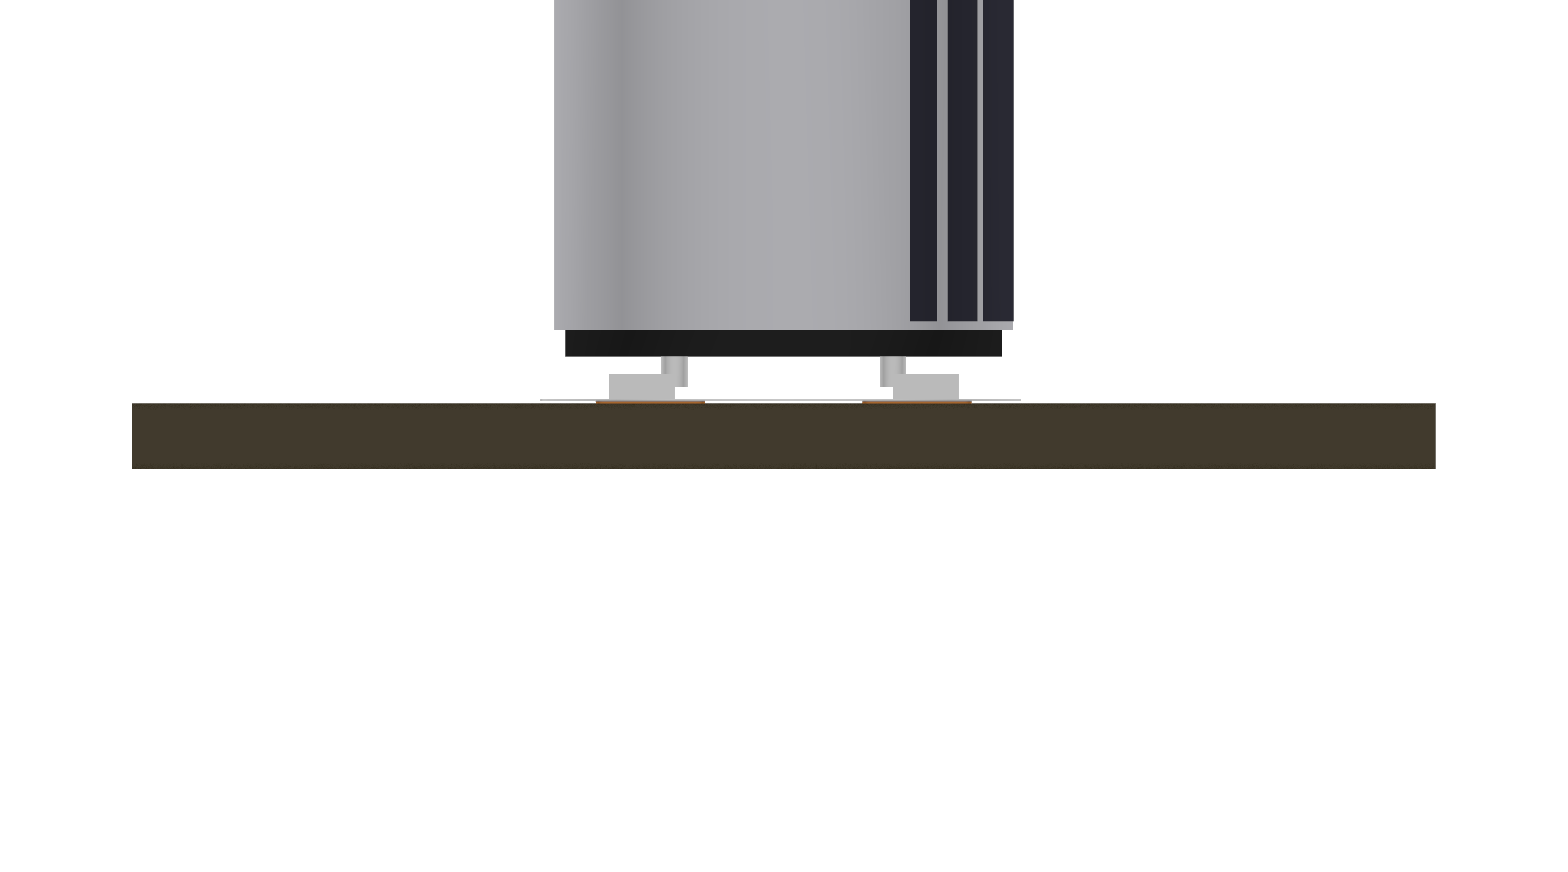
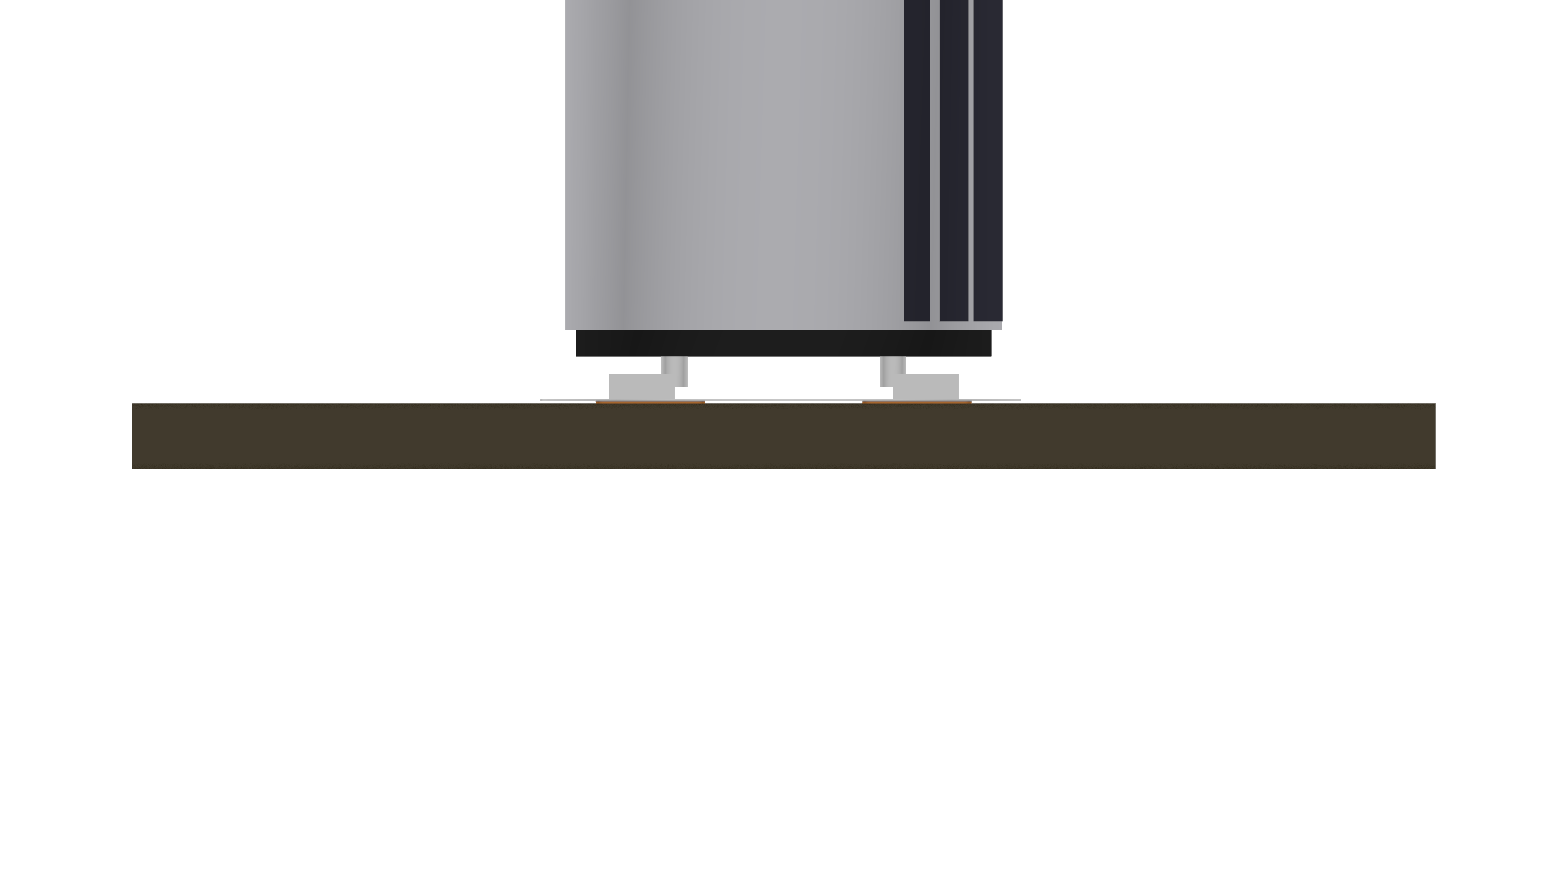
PA35V1000M10X15: model at nominal D10 x L15; report updates
The 3D model was the max envelope (D10.5 x L16). It now shows the nominal
part; the courtyard keeps the max. Report: 12P courtyard item dropped, TLV3502
board repoint noted.

Changed region(s): [[0.5625, 0.0, 0.6562, 0.4025], [0.3438, 0.0, 0.375, 0.4025]]

diff --git a/reports/2026-11-13-audio-board-parts/REPORT.md b/reports/2026-11-13-audio-board-parts/REPORT.md
@@ -18,7 +18,7 @@ the parts as follows:
 | Part | Library | Footprint | LCSC | Datasheet | Basis / notes |
 |---|---|---|---|---|---|
 | TPS552872RYQR (TI 36 V 4 A buck-boost, VQFN-HR-21) | DC-DC_converter_KSL | **VQFN-HR-21_L5.0-W3.0-P0.50_RYQ0021A** (new) | C22427496 | local, English (TI SLVSHG1) | Lands per TI example board layout 4226658/A (SLVSHG1 p.38), with pin 9 widened to 0.33 and the 2× 0.54 bar offset around it. Paste per the example stencil (p.39): bar pins 7–11 as 3 × 1.0 mm unnamed paste-only windows. 21 symbol pins checked name-for-name against Table 5-1 |
-| PA35V1000M10X15 (JIERR 1000 µF 35 V polymer, radial D10 × L15) | Capacitor_KSL | **CP_Radial_D10.0mm_P5.00mm_SMD-FormedLead** (new) | C46550434 | local, **bilingual** (see open items) | p.7 table: 16 mΩ, 4100 mA ripple, 10X15. The cap is mounted upright with its leads formed into SMD feet on 2.5 × 1.3 pads, with no holes. The model is a max envelope (D10.5, 16.0 body + 1.0 assumed forming standoff), not maker CAD |
+| PA35V1000M10X15 (JIERR 1000 µF 35 V polymer, radial D10 × L15) | Capacitor_KSL | **CP_Radial_D10.0mm_P5.00mm_SMD-FormedLead** (new) | C46550434 | local, **bilingual** (see open items) | p.7 table: 16 mΩ, 4100 mA ripple, 10X15. The cap is mounted upright with its leads formed into SMD feet on 2.5 × 1.3 pads, with no holes. The model is the nominal part, D10.0 × L15.0 (code 10X15, p.2 table), on a 1.0 mm assumed forming standoff; the courtyard keeps the max D10.5 × L16.0. LCSC's own model was not used: it is a generic D10 can about 12 mm tall with straight through-hole leads |
 | AFC01-S10FCA-00 (JUSHUO 10P 0.5 mm FPC, flip-lock, bottom contact) | Connector_KSL | **FPC-SMD_AFC01-S10FCA-00** (new) | C262659 | local, English (family spec, sha256 = the accepted S05 copy) | Signal 0.30 × 1.30 at 0.50; nails 2.00 × 1.60 at ±3.95. This follows the family rule A/2 + 1.70 that also gives the verified S05 (±2.70). 10P row: A 4.50 / B 5.60 / C 9.40 |
 | **FPC-05F-14PH20** (XUNPU 14P 0.5 mm FPC, flip-lock, bottom contact, H2.0) | Connector_KSL | **FPC-SMD_14P-P0.50_FPC-05F-14PH20** (new) | C2856800 | local, **bilingual** (see open items) | Built from the verified 12P footprint: outline +0.5 per side, 14 signal pads at exact 0.50 pitch, shells 15/16 at ±4.94. Cross-checked against the LCSC/EasyEDA 14P CAD (pads agree to 0.3 µm) and the maker drawing p.1 (0.30 × 1.25 at 0.50, nails 2.00 × 2.50, 2.69 nail edge → pin 1, 0.70 gap). STEP is the LCSC model, with the same origin convention as the 12P (offset y +1.2) |
 | 0402WGF3162TCE (UNI-ROYAL 31.6 kΩ 1 % 0402) | Resistor_KSL | R0402 | C11463 | local, English (family) | |
@@ -39,8 +39,9 @@ the parts as follows:
 ## Modifications (flagged)
 
 - **FPC-SMD_14P-P0.50_FPC-05F-14PH20:** the courtyard was taken from the LCSC CAD, which stopped at y +3.14. That is
-  short of the body and actuator, so it now runs to y +4.45. The 12P footprint it was built from has **no courtyard at
-  all**. That is left as is, as an open item.
+  short of the body and actuator, so it now runs to y +4.45.
+- **CP_Radial_D10.0mm_P5.00mm_SMD-FormedLead model:** regenerated at the nominal D10.0 × L15.0. It was previously
+  drawn at the max envelope, D10.5 × L16.0.
 - **FPC-SMD_8P-P0.50-FH34SRJ:** removed a second pin-1 triangle that sat on silkscreen under the connector body. The
   pin-1 circle outside the body remains. Before/after: the triangle is the only change (3 `fp_line`s).
 
@@ -61,5 +62,6 @@ the parts as follows:
    alongside Chinese. Under skill item 4 an English-only engineer can use them, but I did not upgrade the recorded
    verdict to `en` just to pass the gate. Reviewer: please confirm `en` (as was done for CA55-H035M686TE070) or ask
    for translations.
-2. **FPC-05F-12PH20 has no F.CrtYd.** Suggest adding ±6.29 × −2.18…+4.45 to match the 14P.
-3. **PA cap model** is an envelope with an assumed 1.0 mm forming standoff, not maker CAD.
+2. **PA cap forming:** the 1.0 mm standoff and the 1.5 mm feet are Blackstar's assembly choice, not the maker's.
+   Confirm them with the assembler.
+3. **Audio Board repoint (done in the Cube repo):** TLV3502AIDCNR now uses `Amplifier_Comparator_KSL`.
